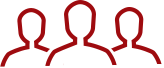
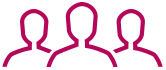
mod: style.

Changed region(s): [[0.0, 0.0, 1.0, 1.0]]

diff --git a/index.html b/index.html
@@ -80,9 +80,13 @@
 
     <div class="section">
       <p class="title">联系我们</p>
-      <p>希望找到执行力强，工作积极主动，认真负责，有想法，有团队合作精神，抗压性强的小伙伴加入我们！Let’s make things happen! 只要你足够优秀，我们会高薪聘请，不惜一切把你留下！！</p>
-      <p>感兴趣的小伙伴们可发简历到：hr@imaygou.com  我们会尽快与你联系！</p>
+      <p><strong>希望找到执行力强，工作积极主动，认真负责，有想法，有团队合作精神，抗压性强的小伙伴加入我们！Let’s make things happen! 只要你足够优秀，我们会高薪聘请，不惜一切把你留下！！</strong></p>
+      <p><strong>感兴趣的小伙伴们可发简历到：<a href="mailto:hr@imaygou.com">hr@imaygou.com</a>  我们会尽快与你联系！</strong></p>
     </div>
+  </div>
+
+  <div class="section-qrcode">
+    <img class="qrcode" src="images/qrcode.png" alt="" />
   </div>
 </body>
 </html>

diff --git a/index.css b/index.css
@@ -71,3 +71,18 @@ ul {
   vertical-align: middle;
   margin: 0 5px;
 }
+
+.section-qrcode {
+  text-align: center;
+}
+
+.section a {
+  color: #b50759;
+}
+
+.qrcode {
+  width: 128px;
+  height: 128px;
+  margin-bottom: 50px;
+}
+
